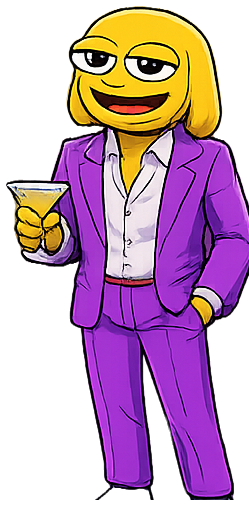
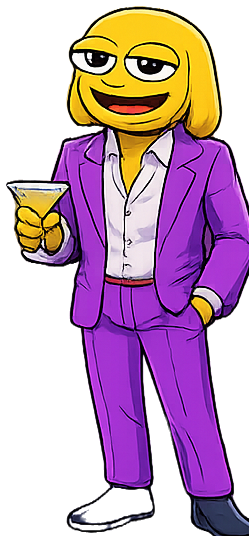
fix: pepe legs back + natural varied dances + ball-click fireworks
PEPE'S LEGS:
- trim_foot_shadow() was discarding his dark blue jeans because brightness
  > 100 treated them as 'shadow'. Replaced with brightness > 90 OR
  saturation > 40 (max(RGB) - min(RGB) > 40 catches saturated colours
  like jeans even if dark). Floor shadow has neither and still gets cut.
- Lowered min_row_pct from 0.18 to 0.08 so narrow body parts (legs,
  shoes) still qualify as body. Pepe now full-body with blue jeans +
  shoes.

NATURAL DANCES:
- Each boy now has a DIFFERENT cycle duration so the group drifts in and
  out of phase instead of metronoming together:
    A (pepe)      9 * beat-ms  (energetic, 4.5 beats)
    B (maus)      7 * beat-ms  (out of phase with everyone)
    C (eggplant)  4 * beat-ms  (DJ — tight 2-beat bob)
    D (andy)     11 * beat-ms  (slowest sway, bartender)
    E (landwulf) 13 * beat-ms  (laid-back customer)
  Non-multiples deliberately, so 9 vs 7 vs 4 vs 11 vs 13 never re-align.
- Each animation now has 7-10 keyframes (not the old 5) with subtle
  lateral wander via translateX(calc(-50% + Xpx)). Pepe steps side-to-
  side ±12px while bobbing, Maus does a 2-step shuffle, Landwulf occasion-
  ally raises his drink (a deeper translateY dip at 55%).
- Custom cubic-bezier timings per boy for snappier vs smoother feel.

DISCO BALL = FIREWORKS:
- DiscoBall.tsx made clickable (added onClick + role/aria/tabIndex)
- Ball gets a brief pop scale on click (.ball-popped class, 0.5s)
[…]

diff --git a/src/boys/boys.css b/src/boys/boys.css
@@ -88,44 +88,77 @@
   pointer-events: none;
 }
 
-/* === Dance animations — translateX(-50%) is the anchor, dance adds to it === */
-.boy[data-dance='A'] { animation: danceA calc(var(--beat-ms) * 4) ease-in-out infinite; }
-.boy[data-dance='B'] { animation: danceB calc(var(--beat-ms) * 4) ease-in-out infinite; }
-.boy[data-dance='C'] { animation: danceC calc(var(--beat-ms) * 4) ease-in-out infinite; }
-.boy[data-dance='D'] { animation: danceD calc(var(--beat-ms) * 8) ease-in-out infinite; }
-.boy[data-dance='E'] { animation: danceE calc(var(--beat-ms) * 8) ease-in-out infinite; }
+/* === Dance animations === each boy has their OWN rhythm + amplitude +
+   horizontal wander so the group never feels like a single mechanical
+   metronome. Durations are intentionally non-multiples so the boys drift
+   in and out of phase with each other and with the beat — feels alive. */
+.boy[data-dance='A'] { animation: danceA calc(var(--beat-ms) * 9)  cubic-bezier(0.4, 0, 0.4, 1) infinite; }
+.boy[data-dance='B'] { animation: danceB calc(var(--beat-ms) * 7)  cubic-bezier(0.5, 0, 0.3, 1) infinite; }
+.boy[data-dance='C'] { animation: danceC calc(var(--beat-ms) * 4)  ease-in-out infinite; }
+.boy[data-dance='D'] { animation: danceD calc(var(--beat-ms) * 11) ease-in-out infinite; }
+.boy[data-dance='E'] { animation: danceE calc(var(--beat-ms) * 13) ease-in-out infinite; }
 
-/* Dancers (A, B) get big movement. DJ (C) bobs heavily. Bar folks (D, E) sway slowly. */
+/* Pepe — energetic full-body dance with thumb pumping + lateral wander.
+   The dance has a "step forward, step back" motion plus occasional jumps.
+   Includes a tiny pause at 60% (the breath between moves). */
 @keyframes danceA {
-  0%   { transform: translateX(-50%) translateY(0)     rotate(-6deg); }
-  25%  { transform: translateX(-50%) translateY(-14px) rotate(8deg); }
-  50%  { transform: translateX(-50%) translateY(-2px)  rotate(-4deg); }
-  75%  { transform: translateX(-50%) translateY(-12px) rotate(6deg); }
-  100% { transform: translateX(-50%) translateY(0)     rotate(-6deg); }
+  0%   { transform: translateX(calc(-50% + 0px))  translateY(0)     rotate(-5deg); }
+  12%  { transform: translateX(calc(-50% + 6px))  translateY(-16px) rotate(4deg); }
+  24%  { transform: translateX(calc(-50% + 10px)) translateY(-4px)  rotate(-3deg); }
+  36%  { transform: translateX(calc(-50% + 12px)) translateY(-12px) rotate(8deg); }
+  48%  { transform: translateX(calc(-50% + 4px))  translateY(-22px) rotate(-2deg); }
+  56%  { transform: translateX(calc(-50% + 2px))  translateY(-6px)  rotate(2deg); }   /* breath */
+  64%  { transform: translateX(calc(-50% - 4px))  translateY(-18px) rotate(-6deg); }
+  76%  { transform: translateX(calc(-50% - 10px)) translateY(-2px)  rotate(6deg); }
+  88%  { transform: translateX(calc(-50% - 6px))  translateY(-14px) rotate(-4deg); }
+  100% { transform: translateX(calc(-50% + 0px))  translateY(0)     rotate(-5deg); }
 }
+
+/* Maus — two-step shuffle with sway and a head-tilt thing.
+   Lateral movement is smaller because he's smaller in the frame. */
 @keyframes danceB {
-  0%   { transform: translateX(-50%) translateY(-10px) rotate(-8deg); }
-  25%  { transform: translateX(-50%) translateY(0)     rotate(6deg); }
-  50%  { transform: translateX(-50%) translateY(-16px) rotate(-10deg); }
-  75%  { transform: translateX(-50%) translateY(-2px)  rotate(8deg); }
-  100% { transform: translateX(-50%) translateY(-10px) rotate(-8deg); }
+  0%   { transform: translateX(-50%)              translateY(-2px)  rotate(-6deg); }
+  18%  { transform: translateX(calc(-50% - 4px))  translateY(-14px) rotate(8deg); }
+  32%  { transform: translateX(calc(-50% - 7px))  translateY(0)     rotate(-4deg); }
+  44%  { transform: translateX(calc(-50% - 3px))  translateY(-18px) rotate(7deg); }
+  56%  { transform: translateX(calc(-50% + 2px))  translateY(-6px)  rotate(-5deg); }
+  68%  { transform: translateX(calc(-50% + 6px))  translateY(-16px) rotate(10deg); }
+  82%  { transform: translateX(calc(-50% + 3px))  translateY(-4px)  rotate(-8deg); }
+  100% { transform: translateX(-50%)              translateY(-2px)  rotate(-6deg); }
 }
+
+/* Eggplant DJ — rhythmic head bob behind the decks, in tight 2-beat cycle.
+   Less lateral movement (he's stuck behind the pult), more vertical bob. */
 @keyframes danceC {
-  0%   { transform: translateX(-50%) translateY(0)     rotate(-5deg); }
-  25%  { transform: translateX(-50%) translateY(-12px) rotate(7deg); }
-  50%  { transform: translateX(-50%) translateY(-4px)  rotate(-3deg); }
-  75%  { transform: translateX(-50%) translateY(-14px) rotate(5deg); }
-  100% { transform: translateX(-50%) translateY(0)     rotate(-5deg); }
+  0%   { transform: translateX(-50%) translateY(0)     rotate(-4deg); }
+  25%  { transform: translateX(-50%) translateY(-10px) rotate(6deg); }
+  50%  { transform: translateX(-50%) translateY(-2px)  rotate(-3deg); }
+  75%  { transform: translateX(-50%) translateY(-12px) rotate(5deg); }
+  100% { transform: translateX(-50%) translateY(0)     rotate(-4deg); }
 }
+
+/* Andy bartender — subtle sway with a tiny lateral lean (reaching for bottles?).
+   Lower amplitude because he's working. */
 @keyframes danceD {
-  0%   { transform: translateX(-50%) translateY(-2px)  rotate(2deg); }
-  50%  { transform: translateX(-50%) translateY(-5px)  rotate(-3deg); }
-  100% { transform: translateX(-50%) translateY(-2px)  rotate(2deg); }
+  0%   { transform: translateX(-50%)              translateY(0)    rotate(-2deg); }
+  15%  { transform: translateX(calc(-50% + 3px))  translateY(-3px) rotate(2deg); }
+  30%  { transform: translateX(calc(-50% + 5px))  translateY(0)    rotate(-1deg); }
+  50%  { transform: translateX(calc(-50% + 1px))  translateY(-5px) rotate(3deg); }
+  70%  { transform: translateX(calc(-50% - 3px))  translateY(-1px) rotate(-2deg); }
+  85%  { transform: translateX(calc(-50% - 2px))  translateY(-4px) rotate(1deg); }
+  100% { transform: translateX(-50%)              translateY(0)    rotate(-2deg); }
 }
+
+/* Landwulf customer — laid-back sway, occasional dip (raising his drink).
+   Slowest cycle of all — he's vibing not dancing. */
 @keyframes danceE {
-  0%   { transform: translateX(-50%) translateY(-3px)  rotate(-2deg); }
-  50%  { transform: translateX(-50%) translateY(-6px)  rotate(3deg); }
-  100% { transform: translateX(-50%) translateY(-3px)  rotate(-2deg); }
+  0%   { transform: translateX(-50%)              translateY(-2px) rotate(-3deg); }
+  20%  { transform: translateX(calc(-50% - 3px))  translateY(0)    rotate(2deg); }
+  40%  { transform: translateX(calc(-50% - 5px))  translateY(-4px) rotate(-1deg); }
+  55%  { transform: translateX(calc(-50% - 4px))  translateY(-8px) rotate(4deg); }   /* drink raise */
+  72%  { transform: translateX(calc(-50% - 1px))  translateY(-2px) rotate(-3deg); }
+  88%  { transform: translateX(calc(-50% + 2px))  translateY(-5px) rotate(2deg); }
+  100% { transform: translateX(-50%)              translateY(-2px) rotate(-3deg); }
 }
 
 @keyframes boyPop {

diff --git a/src/stage/Fireworks.tsx b/src/stage/Fireworks.tsx
@@ -1,0 +1,85 @@
+/**
+ * Fireworks layer — visible behind the boys but above the back wall.
+ *
+ * Each click of the disco ball spawns 4 bursts at random positions on the
+ * upper portion of the stage. A burst = 14 colored particles radiating
+ * outward from a center point, fading as they expand.
+ */
+import { For, createSignal, createEffect, on, onCleanup } from 'solid-js';
+import { lastBallClick } from '../state';
+
+interface Burst {
+  id: number;
+  x: number;       // % of stage width
+  y: number;       // % of stage height (upper half)
+  color: string;
+  size: number;    // px, radius the particles travel
+  delay: number;   // ms, staggered ignition
+}
+
+const PALETTE = ['#ff2bd6', '#00f0ff', '#fff200', '#39ff14', '#ff7a00', '#b346c8'];
+const PARTICLES_PER_BURST = 16;
+
+let nextId = 1;
+
+export function Fireworks() {
+  const [bursts, setBursts] = createSignal<Burst[]>([]);
+
+  createEffect(
+    on(lastBallClick, (t) => {
+      if (!t) return;
+      // 4 bursts at random positions across the upper half of the back wall
+      const newBursts: Burst[] = Array.from({ length: 4 }, (_, i) => ({
+        id: nextId++,
+        x: 10 + Math.random() * 80,    // 10..90 %
+        y: 8 + Math.random() * 35,     // 8..43 % (upper / back-wall area)
+        color: PALETTE[Math.floor(Math.random() * PALETTE.length)],
+        size: 80 + Math.random() * 60,
+        delay: i * 140,
+      }));
+      setBursts((prev) => [...prev, ...newBursts]);
+      const removeIds = new Set(newBursts.map((b) => b.id));
+      setTimeout(() => {
+        setBursts((prev) => prev.filter((b) => !removeIds.has(b.id)));
+      }, 2200);
+    }),
+  );
+
+  onCleanup(() => setBursts([]));
+
+  return (
+    <div class="fireworks-layer" aria-hidden="true">
+      <For each={bursts()}>{(b) => <Burst burst={b} />}</For>
+    </div>
+  );
+}
+
+function Burst(props: { burst: Burst }) {
+  const particles = Array.from({ length: PARTICLES_PER_BURST });
+  return (
+    <div
+      class="firework"
+      style={{
+        left: `${props.burst.x}%`,
+        top: `${props.burst.y}%`,
+        color: props.burst.color,
+        '--burst-size': `${props.burst.size}px`,
+        'animation-delay': `${props.burst.delay}ms`,
+      }}
+    >
+      <For each={particles}>
+        {(_, i) => (
+          <span
+            class="firework-particle"
+            style={{
+              '--angle': `${(i() / PARTICLES_PER_BURST) * 360}deg`,
+              'animation-delay': `${props.burst.delay}ms`,
+            }}
+          />
+        )}
+      </For>
+      {/* center flash */}
+      <span class="firework-flash" style={{ 'animation-delay': `${props.burst.delay}ms` }} />
+    </div>
+  );
+}

diff --git a/src/stage/stage.css b/src/stage/stage.css
@@ -947,6 +947,22 @@
   z-index: 3;
   pointer-events: none;
 }
+/* The ball itself IS clickable — re-enable pointer events for the inner ball */
+.ball-wrap .discoball {
+  pointer-events: auto;
+  cursor: pointer;
+}
+.ball-wrap .discoball:hover {
+  filter: brightness(1.15) drop-shadow(0 0 16px var(--cyan));
+}
+.ball-popped {
+  animation: ballPopped 0.5s cubic-bezier(0.4, 1.6, 0.5, 1) !important;
+}
+@keyframes ballPopped {
+  0%   { transform: scale(1); }
+  30%  { transform: scale(1.18); filter: brightness(1.4); }
+  100% { transform: scale(1); }
+}
 .ball-string {
   position: absolute;
   top: -22px;
@@ -1264,6 +1280,57 @@
 @keyframes hazePulse {
   from { opacity: 0.3; }
   to   { opacity: 0.9; }
+}
+
+/* === FIREWORKS === sits behind the boys but above the back wall.
+   Fires when the disco ball is clicked. Each .firework spawns 16
+   particles that radiate outward from a center point + a center flash. */
+.fireworks-layer {
+  position: absolute;
+  inset: 0;
+  pointer-events: none;
+  z-index: 2;
+}
+.firework {
+  position: absolute;
+  width: 0;
+  height: 0;
+}
+.firework-particle {
+  position: absolute;
+  top: 0;
+  left: 0;
+  width: 5px;
+  height: 5px;
+  margin: -2.5px 0 0 -2.5px;
+  background: currentColor;
+  border-radius: 50%;
+  box-shadow: 0 0 8px currentColor, 0 0 16px currentColor;
+  transform-origin: 0 0;
+  animation: fireworkBurst 1.6s cubic-bezier(0.1, 0.7, 0.3, 1) forwards;
+  will-change: transform, opacity;
+}
+@keyframes fireworkBurst {
+  0%   { transform: rotate(var(--angle)) translateX(0) scale(0.4); opacity: 1; }
+  12%  { transform: rotate(var(--angle)) translateX(calc(var(--burst-size, 100px) * 0.35)) scale(1.4); opacity: 1; }
+  60%  { transform: rotate(var(--angle)) translateX(calc(var(--burst-size, 100px) * 0.85)) scale(0.8); opacity: 0.85; }
+  100% { transform: rotate(var(--angle)) translateX(calc(var(--burst-size, 100px) * 1.1))  scale(0);   opacity: 0; }
+}
+.firework-flash {
+  position: absolute;
+  top: -16px;
+  left: -16px;
+  width: 32px;
+  height: 32px;
+  border-radius: 50%;
+  background: radial-gradient(circle at 50% 50%, #fff 0%, currentColor 30%, transparent 70%);
+  filter: blur(2px);
+  animation: fireworkFlash 0.5s ease-out forwards;
+}
+@keyframes fireworkFlash {
+  0%   { transform: scale(0); opacity: 1; }
+  40%  { transform: scale(1.5); opacity: 0.9; }
+  100% { transform: scale(0.6); opacity: 0; }
 }
 
 /* === Responsive === */

diff --git a/src/stage/DiscoBall.tsx b/src/stage/DiscoBall.tsx
@@ -1,13 +1,32 @@
 /**
  * The mirror ball — pure CSS, layered radial gradients + animated meridians.
- * Looks spherical from any angle. Sweeps a bright band across to fake rotation.
+ * Clicking the ball triggers a fireworks burst behind the boys.
  */
+import { triggerDiscoBall } from '../state';
+
 export function DiscoBall() {
+  function onClick(e: MouseEvent) {
+    e.preventDefault();
+    void triggerDiscoBall();
+    // Brief pop animation on the ball
+    const el = e.currentTarget as HTMLElement;
+    el.classList.remove('ball-popped');
+    void el.offsetWidth;
+    el.classList.add('ball-popped');
+    setTimeout(() => el.classList.remove('ball-popped'), 600);
+  }
+
   return (
-    <div class="ball-wrap" aria-hidden="true">
+    <div class="ball-wrap">
       <div class="ball-beams" />
       <div class="ball-string" />
-      <div class="discoball">
+      <div
+        class="discoball"
+        onClick={onClick}
+        role="button"
+        aria-label="Disco ball — click for fireworks"
+        tabIndex={0}
+      >
         <div class="discoball-lat" />
         <div class="discoball-mer" />
         <div class="discoball-sweep" />

diff --git a/src/state.ts b/src/state.ts
@@ -143,6 +143,20 @@ export type BoyAction = {
 };
 export const [lastBoyAction, setLastBoyAction] = createSignal<BoyAction | null>(null);
 
+/** Disco-ball click → fireworks. ts = performance.now() to ensure each click
+ *  creates a fresh signal value the effect can react to. */
+export const [lastBallClick, setLastBallClick] = createSignal(0);
+
+export async function triggerDiscoBall(): Promise<void> {
+  await audio.init();
+  // Small celebratory pop: crash + brief filter sweep
+  const t = audio.ctx!.currentTime;
+  audio.crash(t, 0.7);
+  audio.crash(t + 0.18, 0.5);
+  audio.crash(t + 0.42, 0.6);
+  setLastBallClick(performance.now());
+}
+
 export async function triggerBoyAction(boyId: string): Promise<void> {
   await audio.init();
   audio.setMaster(volume() * volume());

diff --git a/src/stage/Stage.tsx b/src/stage/Stage.tsx
@@ -21,6 +21,7 @@ import { For, createSignal, createEffect, on } from 'solid-js';
 import { DiscoBall } from './DiscoBall';
 import { Boys } from '../boys/Boys';
 import { BubbleLayer } from '../bubbles/BubbleLayer';
+import { Fireworks } from './Fireworks';
 import { mood, lastBoyAction } from '../state';
 import './stage.css';
 
@@ -198,6 +199,9 @@ export function Stage() {
           )}
         </For>
       </div>
+
+      {/* Fireworks layer (behind boys, above back wall) */}
+      <Fireworks />
 
       <DiscoBall />
       <div class="dance-floor-glow" />

diff --git a/scripts/cut-boys.py b/scripts/cut-boys.py
@@ -128,18 +128,23 @@ def keep_largest_blob(img: Image.Image, alpha_threshold: int = 32) -> Image.Imag
     return Image.fromarray(arr, "RGBA")
 
 
-def trim_foot_shadow(img: Image.Image, min_row_pct: float = 0.18) -> Image.Image:
+def trim_foot_shadow(img: Image.Image, min_row_pct: float = 0.08) -> Image.Image:
     """Cut off the tail at the bottom of the cutout — the source illustration
     has a floor shadow under the boy that survives matte removal. The shadow
-    is dark (low RGB) and narrow, while the body has bright/colorful pixels.
+    is GREY (low saturation, similar R/G/B), while the body has either
+    BRIGHT pixels OR SATURATED color (jeans = dark BUT very blue).
 
     Walk from the bottom up. A row qualifies as "body" only if it has enough
-    BRIGHT (non-shadow) pixels — i.e. pixels that aren't just dark grey. Once
-    we find the body row, kill alpha below it."""
+    BRIGHT-OR-SATURATED pixels. Floor shadow has neither (it's just dark grey
+    pixels with no real colour). Once we find the body row, kill alpha
+    below it. Threshold is lenient so we don't chop legs by accident."""
     arr = np.array(img)
     alpha = arr[..., 3]
-    brightness = arr[..., :3].mean(axis=2)  # 0..255 mean RGB
-    body_mask = (alpha > 120) & (brightness > 100)  # solid alpha AND brighter than floor shadow
+    rgb = arr[..., :3].astype(np.int16)
+    brightness = rgb.mean(axis=2)
+    saturation = rgb.max(axis=2) - rgb.min(axis=2)  # span between R/G/B channels
+    # Body = solid alpha AND (bright OR coloured). Shadow is grey + dark = fails both.
+    body_mask = (alpha > 120) & ((brightness > 90) | (saturation > 40))
     row_counts = body_mask.sum(axis=1)
     if row_counts.max() == 0:
         return img
@@ -148,8 +153,8 @@ def trim_foot_shadow(img: Image.Image, min_row_pct: float = 0.18) -> Image.Image
     body_bottom = h - 1
     while body_bottom > 0 and row_counts[body_bottom] < threshold:
         body_bottom -= 1
-    # Keep 6px breathing room below the actual body
-    body_bottom = min(h - 1, body_bottom + 6)
+    # Keep 8px breathing room below the actual body
+    body_bottom = min(h - 1, body_bottom + 8)
     arr[body_bottom + 1:, ..., 3] = 0
     return Image.fromarray(arr, "RGBA")
 
